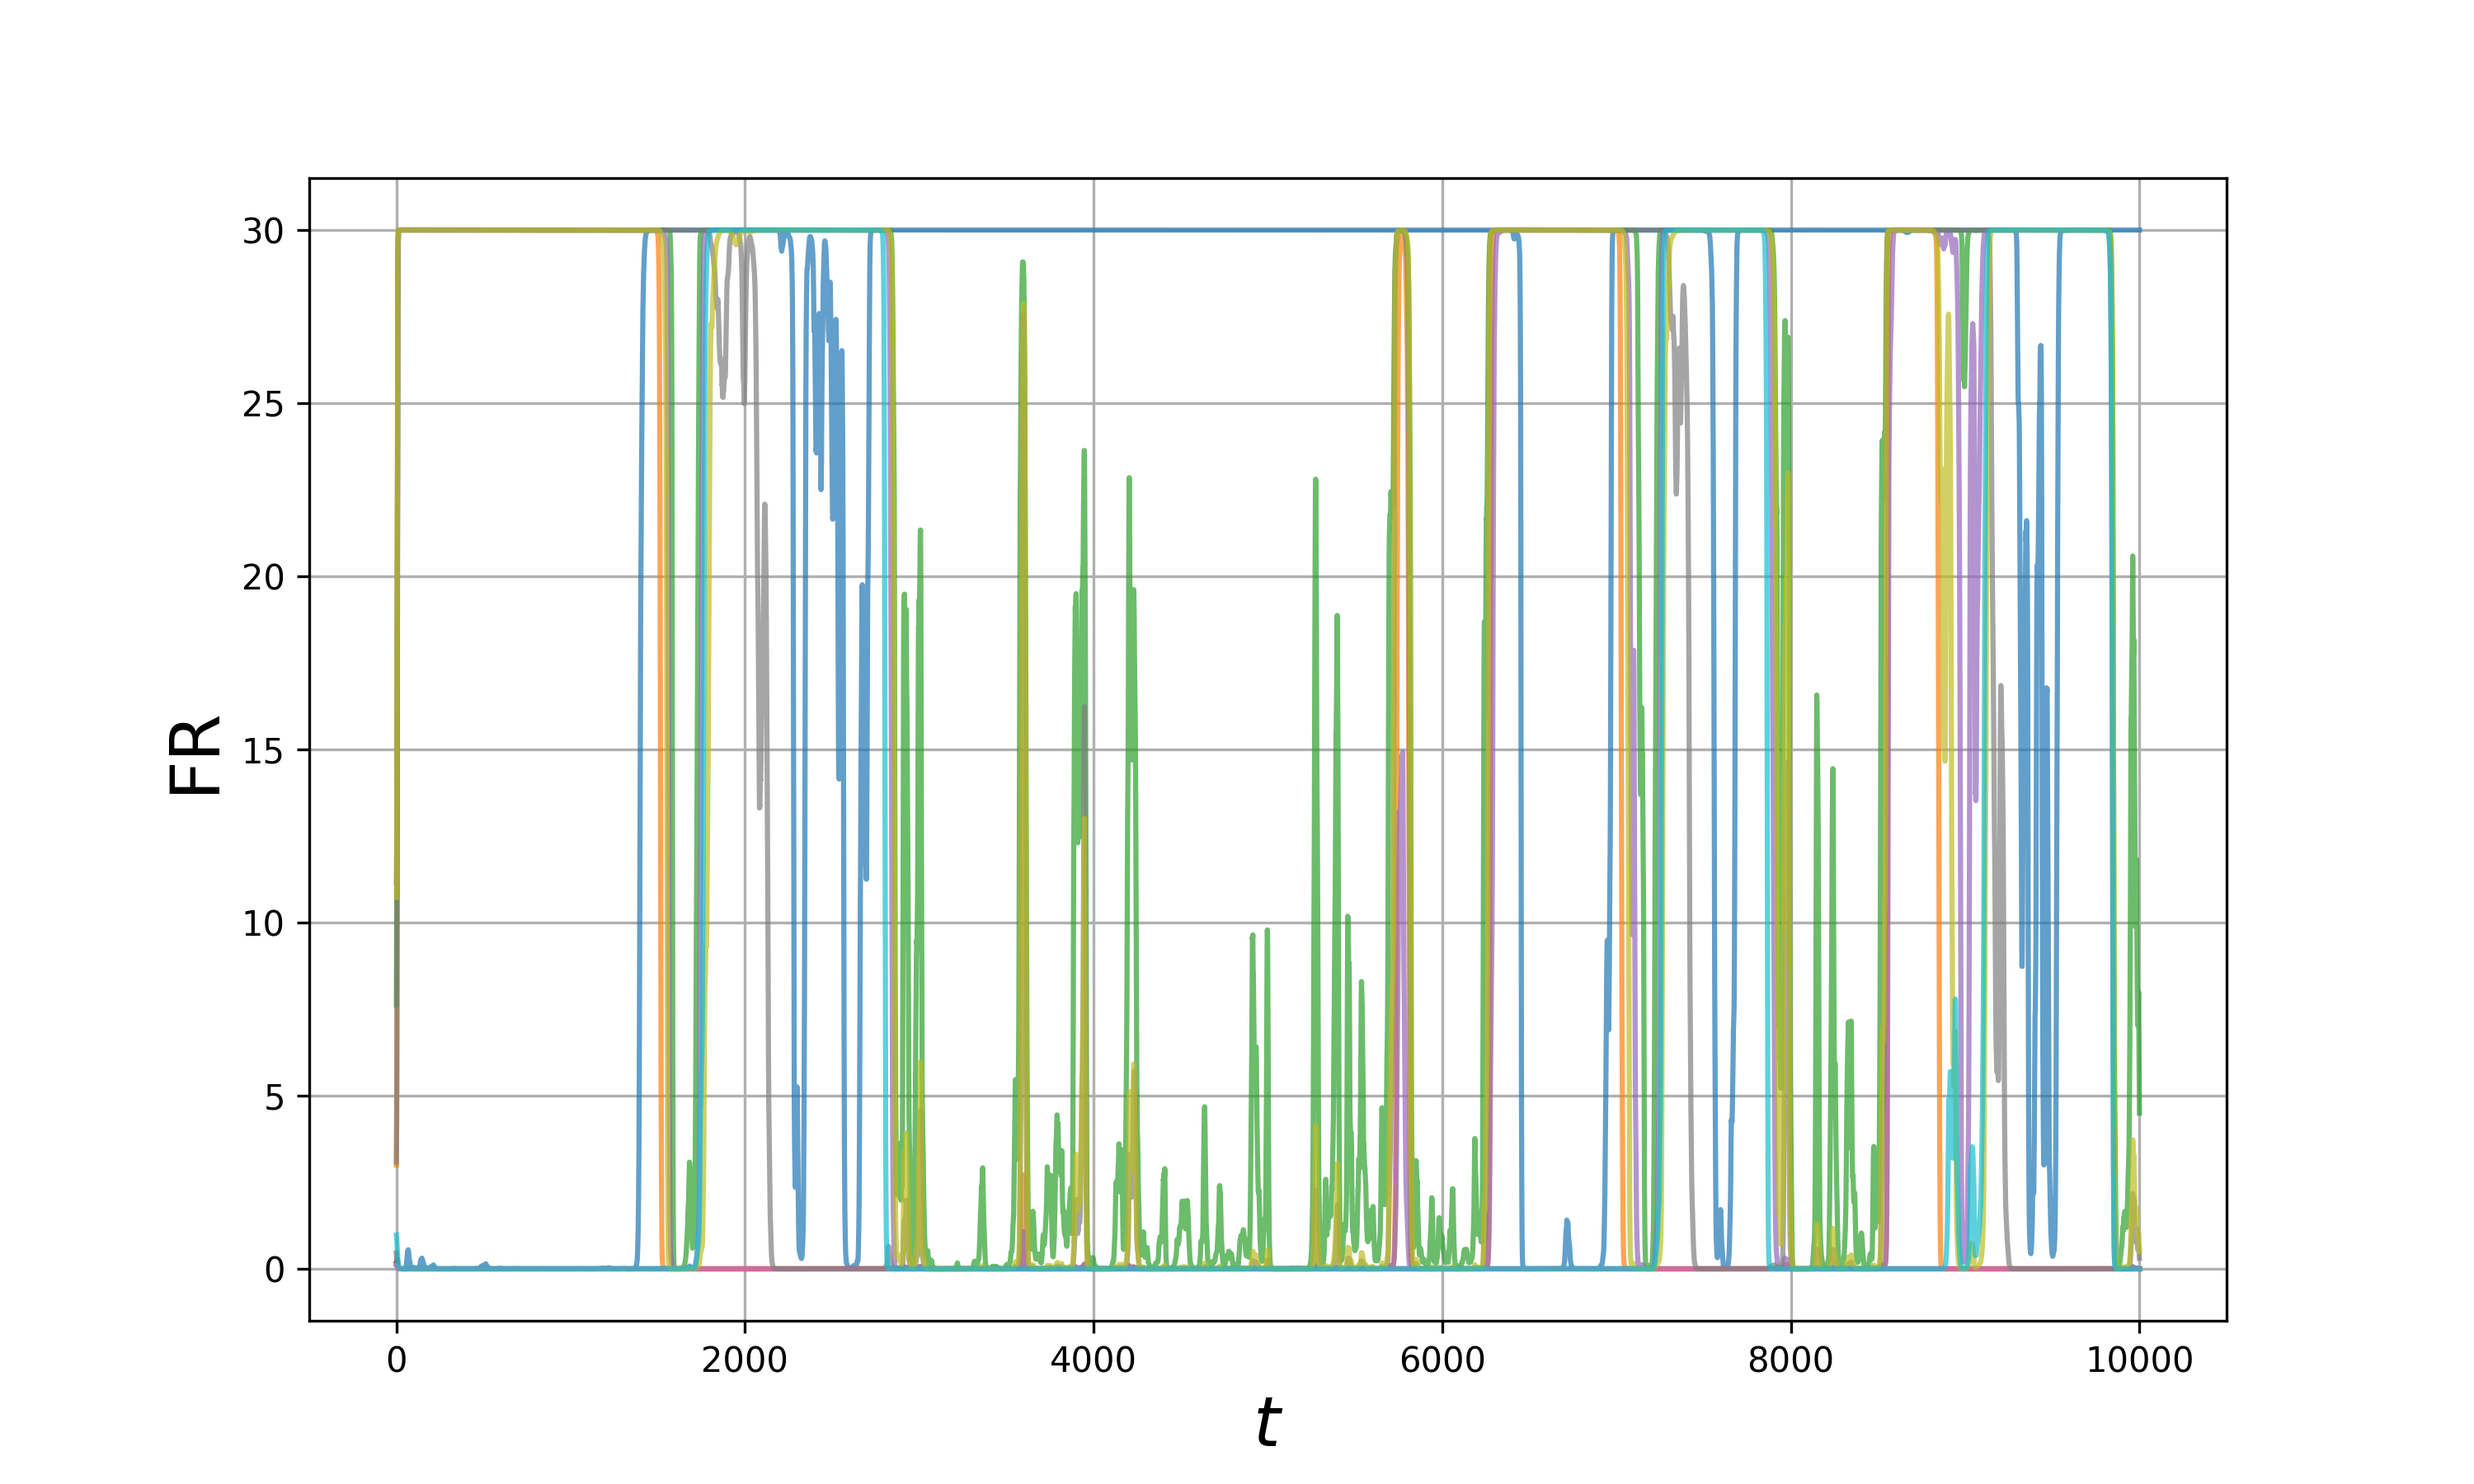
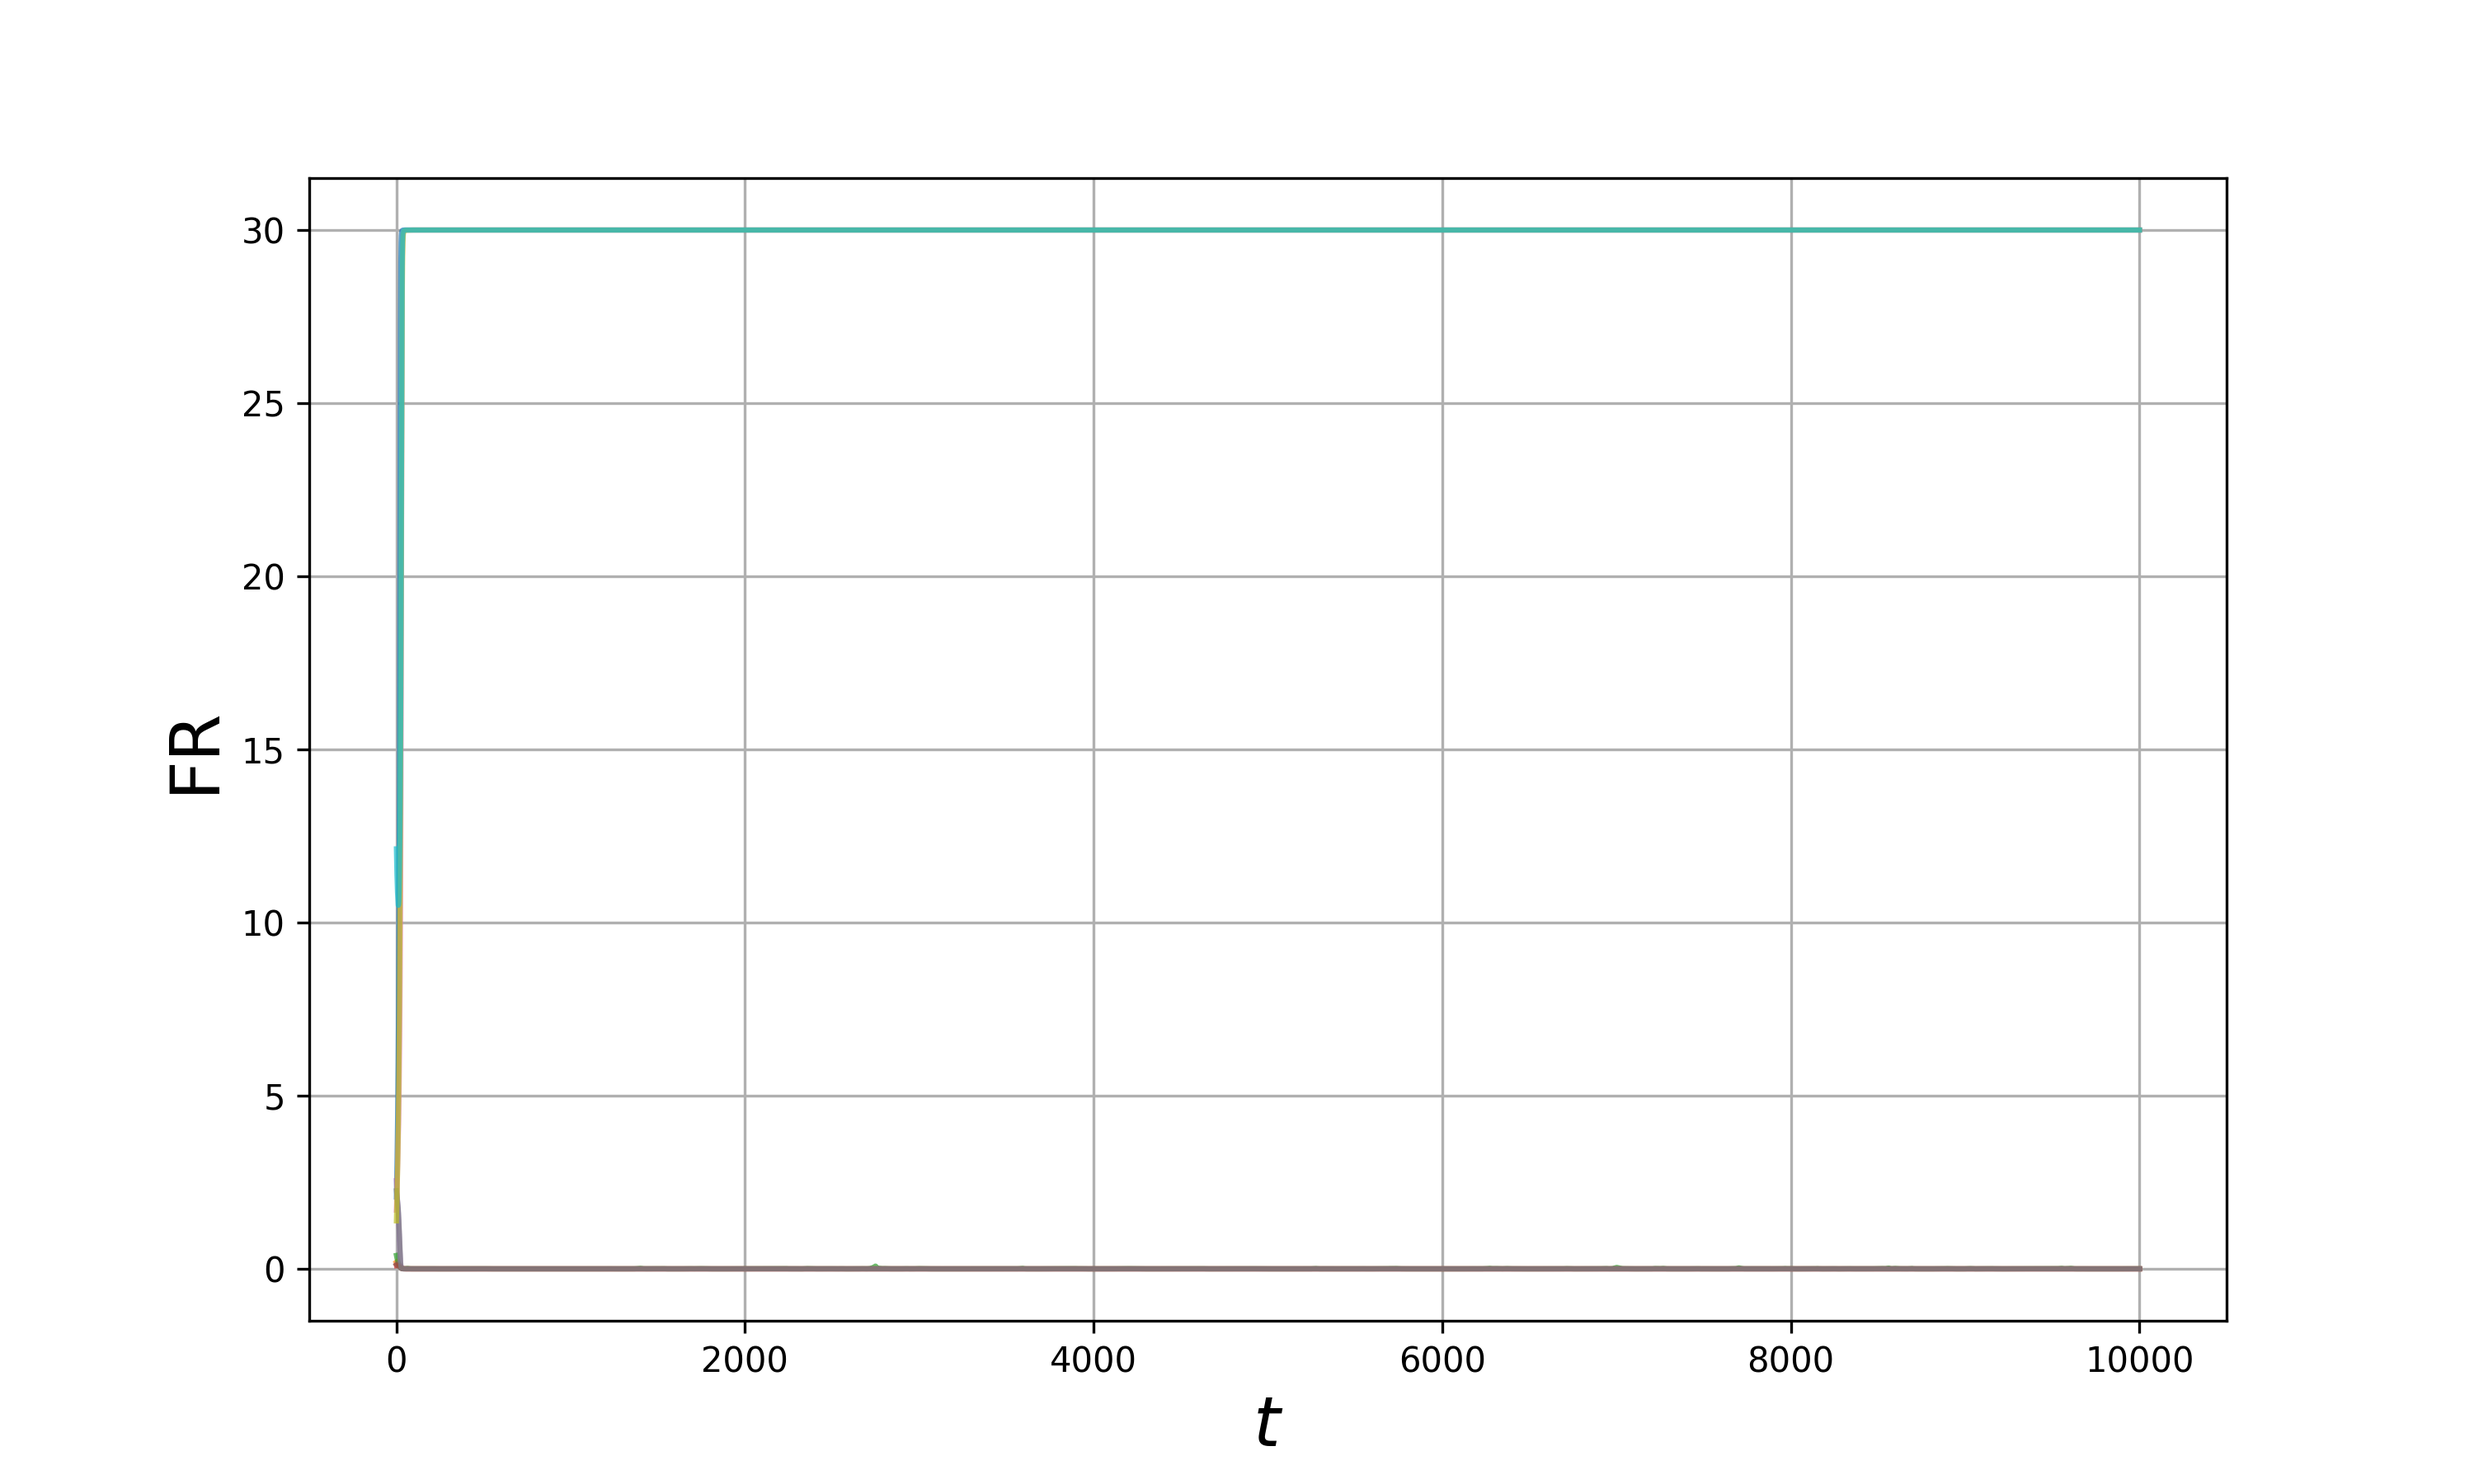
ou non neg

Changed region(s): [[0.155, 0.1556, 0.868, 0.8711], [0.155, 0.1556, 0.186, 0.7778]]

diff --git a/src/permanence.py b/src/permanence.py
@@ -19,9 +19,10 @@ from parameters import (
         multiple_dir_name
 )
 
-patterns_path = os.path.join(os.path.dirname(__file__), "..", f'{multiple_dir_name}{"_"}{N}', 'npy', 'memory_patterns.npy')
-firing_rates_path = os.path.join(os.path.dirname(__file__), "..", f'{multiple_dir_name}{"_"}{N}', 'npy', 'firing_rates')
-threshold = 0.5
+npy_path = os.path.join(os.path.dirname(__file__), "..", f'{multiple_dir_name}{"_"}{N}', 'npy')
+patterns_path = os.path.join(npy_path, 'memory_patterns.npy')
+firing_rates_path = os.path.join(npy_path, 'firing_rates')
+threshold = 0.6
 
 import numpy as np
 
@@ -141,18 +142,28 @@ def calculate_permanence_statistics(threshold=0.8, dt=None, file_path="firing_ra
     return np.mean(permanence_all), np.std(permanence_all), permanence_all
 
 if __name__ == "__main__":
-    mean_perm, std_perm, all_perm = calculate_permanence_statistics(threshold=threshold, dt=dt, file_path=firing_rates_path)
+    # check if permanence_times.npy already exists
+    if os.path.exists(os.path.join(npy_path, "permanence_times.npy")):
+        print("permanence_times.npy already exists. Loading data...")
+        all_perm = np.load(os.path.join(npy_path, "permanence_times.npy"))
+        mean_perm = np.mean(all_perm)
+        std_perm = np.std(all_perm)
+    else:
+        mean_perm, std_perm, all_perm = calculate_permanence_statistics(threshold=threshold, dt=dt, file_path=firing_rates_path)
     print(f"Mean permanence time above threshold {threshold}: {mean_perm:.2f}")
     print(f"Standard deviation of permanence times: {std_perm:.2f}")
     # draw the histogram of all permanence times
-    plt.axvline(mean_perm, color='r', linestyle='--', label='Mean')
-    plt.legend()
+    plt.axvline(mean_perm, color='r', linestyle='--', label='Mean = {:.2f}'.format(mean_perm))
     plt.hist(all_perm, bins=50, density=False)
-    plt.xlabel("Permanence time")
-    plt.ylabel("Counts")
-    plt.title(f"PTs (threshold={threshold}, Total={len(all_perm)}, Mean={mean_perm:.2f}, Std={std_perm:.2f})")
-    # plot the mean as a vertical line and standard deviation as shaded area
+    plt.xlabel("Dwell time", fontsize=20)
+    plt.ylabel("Counts", fontsize=20)
+    # fill between mean +/- std
+    plt.fill_betweenx([0, plt.ylim()[1]], np.maximum(mean_perm - std_perm, 0), mean_perm + std_perm, alpha=0.2, label=f"Std={std_perm:.2f}")
+    plt.title(f"Dwell Times (threshold={threshold}, total={len(all_perm)})", fontsize=20)
+    plt.legend(fontsize=18)
+    plt.savefig(os.path.join(npy_path, "..", "plots", "dwell.png"))
     plt.show()
+    np.save(os.path.join(npy_path, "permanence_times.npy"), all_perm)
 
 
 

diff --git a/src/parameters.py b/src/parameters.py
@@ -13,7 +13,7 @@ import os
 from scipy.__config__ import show
 
 # Network size and pattern parameters
-N = 1500               # Number of neurons (increased for Numba testing)
+N = 5000               # Number of neurons (increased for Numba testing)
 p = 4                 # Number of patterns for symmetric component
 q = 4                  # Number of patterns for asymmetric component (q <= p)
 c = 0.1                # Connection probability (0-1) for Erdős-Rényi model
@@ -53,7 +53,7 @@ apply_er_to_asymmetric = False  # Apply Erdős-Rényi to asymmetric component
 # Time and integration parameters
 tau = 20.0              # Time constant for neural dynamics
 t_start = 0.0           # Simulation start time
-t_end = 30000.0           # Simulation end time
+t_end = 10000.0           # Simulation end time
 dt = 0.2                # Time step for simulation output (increased for efficiency)
 
 # Performance optimization
@@ -61,7 +61,7 @@ use_numba = True        # Enable Numba JIT compilation for large networks (N > 1
 use_g = True  # Whether to apply g function to patterns, default is True in Recanatesi et al.
 
 # Initial condition settings
-init_cond_type = "Near Memory Pattern"  # Options: "Random", "Zero", "Memory Pattern", "Near Memory Pattern", "Negative Memory Pattern"
+init_cond_type = "Negative Memory Pattern"  # Options: "Random", "Zero", "Memory Pattern", "Near Memory Pattern", "Negative Memory Pattern"
 pattern_idx = 1         # Which pattern to use (0-indexed) if using pattern-based init - neglected in multiple simulations
 noise_level = 0.5       # Noise level if using "Near Memory Pattern" init
 
@@ -71,9 +71,10 @@ model_type = "recanatesi"   # Dynamics model: "recanatesi" or "brunel"
 
 # Ornstein-Uhlenbeck process parameters for ζ(t)
 use_ou = True          # Whether to use Ornstein-Uhlenbeck process for ζ(t)
+ou_non_neg = True     # Whether to enforce non-negativity on ζ(t)
 tau_zeta = 20.0          # OU time constant
-zeta_bar = 0.65          # OU mean value (0.6 for p = 5, q = 3)
-sigma_zeta = 0.65        # OU noise intensity (0.3 for p = 5, q = 3)
+zeta_bar = 0.7          # OU mean value (0.65)
+sigma_zeta = 0.55        # OU noise intensity (0.65)
 constant_zeta = 1.     # Constant ζ value when OU is not used
 
 # =============================================================================
@@ -91,7 +92,7 @@ single_dir_name = "simulation_results_new_half"
 multiple_dir_name = "multiple_simulations"
 
 # Number of runs
-runs = 3
+runs = 1
 # Import connectivity or not
 import_connectivity = True
 

diff --git a/src/modules/dynamics.py b/src/modules/dynamics.py
@@ -86,14 +86,15 @@ def simulate_network(W_S,
                      model_type="recanatesi",
                      constant_zeta=1.0,
                      use_numba=False,
-                     seed=None):
+                     seed=None,
+                     ou_non_neg=True):
     if use_numba:
         try:
             from modules.numba_dynamics import simulate_network_numba
             return simulate_network_numba(W_S, W_A, t_span, dt, tau,
                                          initial_condition, use_ou, ou_params,
                                          r_m, beta, x_r, model_type,
-                                         constant_zeta, seed)
+                                         constant_zeta, seed, ou_non_neg=True)
         except Exception:
             # fallback Python
             pass
@@ -139,6 +140,7 @@ def simulate_network(W_S,
             dW = np.float32(np.random.normal(0.0, 1.0) * np.sqrt(dt))
             z_n = zeta_array[i-1]
             z_next = _ou_heun_step(z_n, dt, tau_zeta, zeta_bar, sigma_zeta, dW)
+            z_next = np.maximum(z_next, 0.0) if ou_non_neg else z_next # ensure zeta non-negative
             zeta_array[i] = z_next
             zeta_n = z_n
         else:

diff --git a/src/modules/numba_dynamics.py b/src/modules/numba_dynamics.py
@@ -105,7 +105,7 @@ def ou_heun_step(z, dt_step, tau_zeta, zeta_bar, sigma_zeta, dW):
 def simulate_network_numba(W_S, W_A, initial_condition, n_steps, dt, tau,
                            r_m, beta, x_r, model_type, use_ou,
                            tau_zeta=1.0, zeta_bar=1.0, sigma_zeta=0.0,
-                           constant_zeta=1.0, seed=None):
+                           constant_zeta=1.0, seed=None, ou_non_neg=True):
     if seed is not None:
         np.random.seed(seed)
 
@@ -125,6 +125,7 @@ def simulate_network_numba(W_S, W_A, initial_condition, n_steps, dt, tau,
             dW = np.float32(np.random.normal(0.0, 1.0) * np.sqrt(dt))
             z_n = zeta_array[i-1]
             z_next = ou_heun_step(z_n, dt, tau_zeta, zeta_bar, sigma_zeta, dW)
+            z_next = np.maximum(z_next, 0.0) if ou_non_neg else z_next  # ensure zeta non-negative
             zeta_array[i] = z_next
             zeta_n = z_n
         else:

diff --git a/src/simulation.py b/src/simulation.py
@@ -285,7 +285,8 @@ def simulation():
         model_type=model_type,
         constant_zeta=constant_zeta if not use_ou else None,
         use_numba=use_numba,
-        seed=seed)
+        seed=seed,
+        ou_non_neg=ou_non_neg)
 
     logger.info("\nSimulation completed successfully!")
 
@@ -546,7 +547,9 @@ def simulation():
     # plot the times when the ou noise is above the threshold
     if zeta_array is not None:
         above_threshold = zeta_array > ou_threshold
+        under_threshold = zeta_array <= -1
         ax.fill_between(t, -0.1, 1.1, where=above_threshold, color='lightgray', alpha=0.7, ls = 'dashed', transform=ax.get_xaxis_transform())
+        ax.fill_between(t, -0.1, 1.1, where=under_threshold, color='k', alpha=0.7, ls = 'dashed', transform=ax.get_xaxis_transform())
     if overlaps is not None and overlaps.shape[1] > 0:
         p = overlaps.shape[1]
         for i in range(p):

diff --git a/src/main.py b/src/main.py
@@ -425,7 +425,7 @@ def multiple_simulations():
     np.save(os.path.join(npy_dir, "phi_memory_patterns.npy"), phi_eta)
     np.save(os.path.join(npy_dir, "memory_patterns.npy"), eta)
 
-    for seed_index in range(24, 24+runs):  # Run multiple simulations
+    for seed_index in range(38, 38+runs):  # Run multiple simulations
         # transform the number of the seed into a string called addition
         addition = str(seed_index)
         single_simulation(addition, W_S, W_A_sim, W, eta, phi_eta, t_span, ou_params, seed=seed_index, verbose=verbose)
